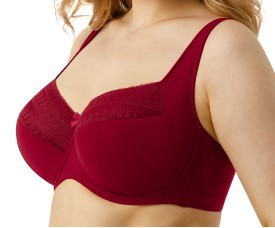
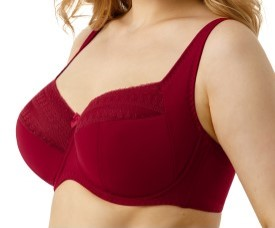
s

diff --git a/shop_pr/backend/shop/bra/product_bra_unit/views.py b/shop_pr/backend/shop/bra/product_bra_unit/views.py
@@ -2,8 +2,11 @@ from .serializer import *
 from .models import *
 from rest_framework import viewsets, filters
 
-
 class ProductBraUnitViewset(viewsets.ModelViewSet):
     queryset = ProductBraUnit.objects.all()
     serializer_class = ProductBraUnitSerializer
-    
+    filter_backends = [filters.SearchFilter, filters.OrderingFilter]
+    search_fields = [
+        'size__size',
+        'cup_size__size'
+    ]
